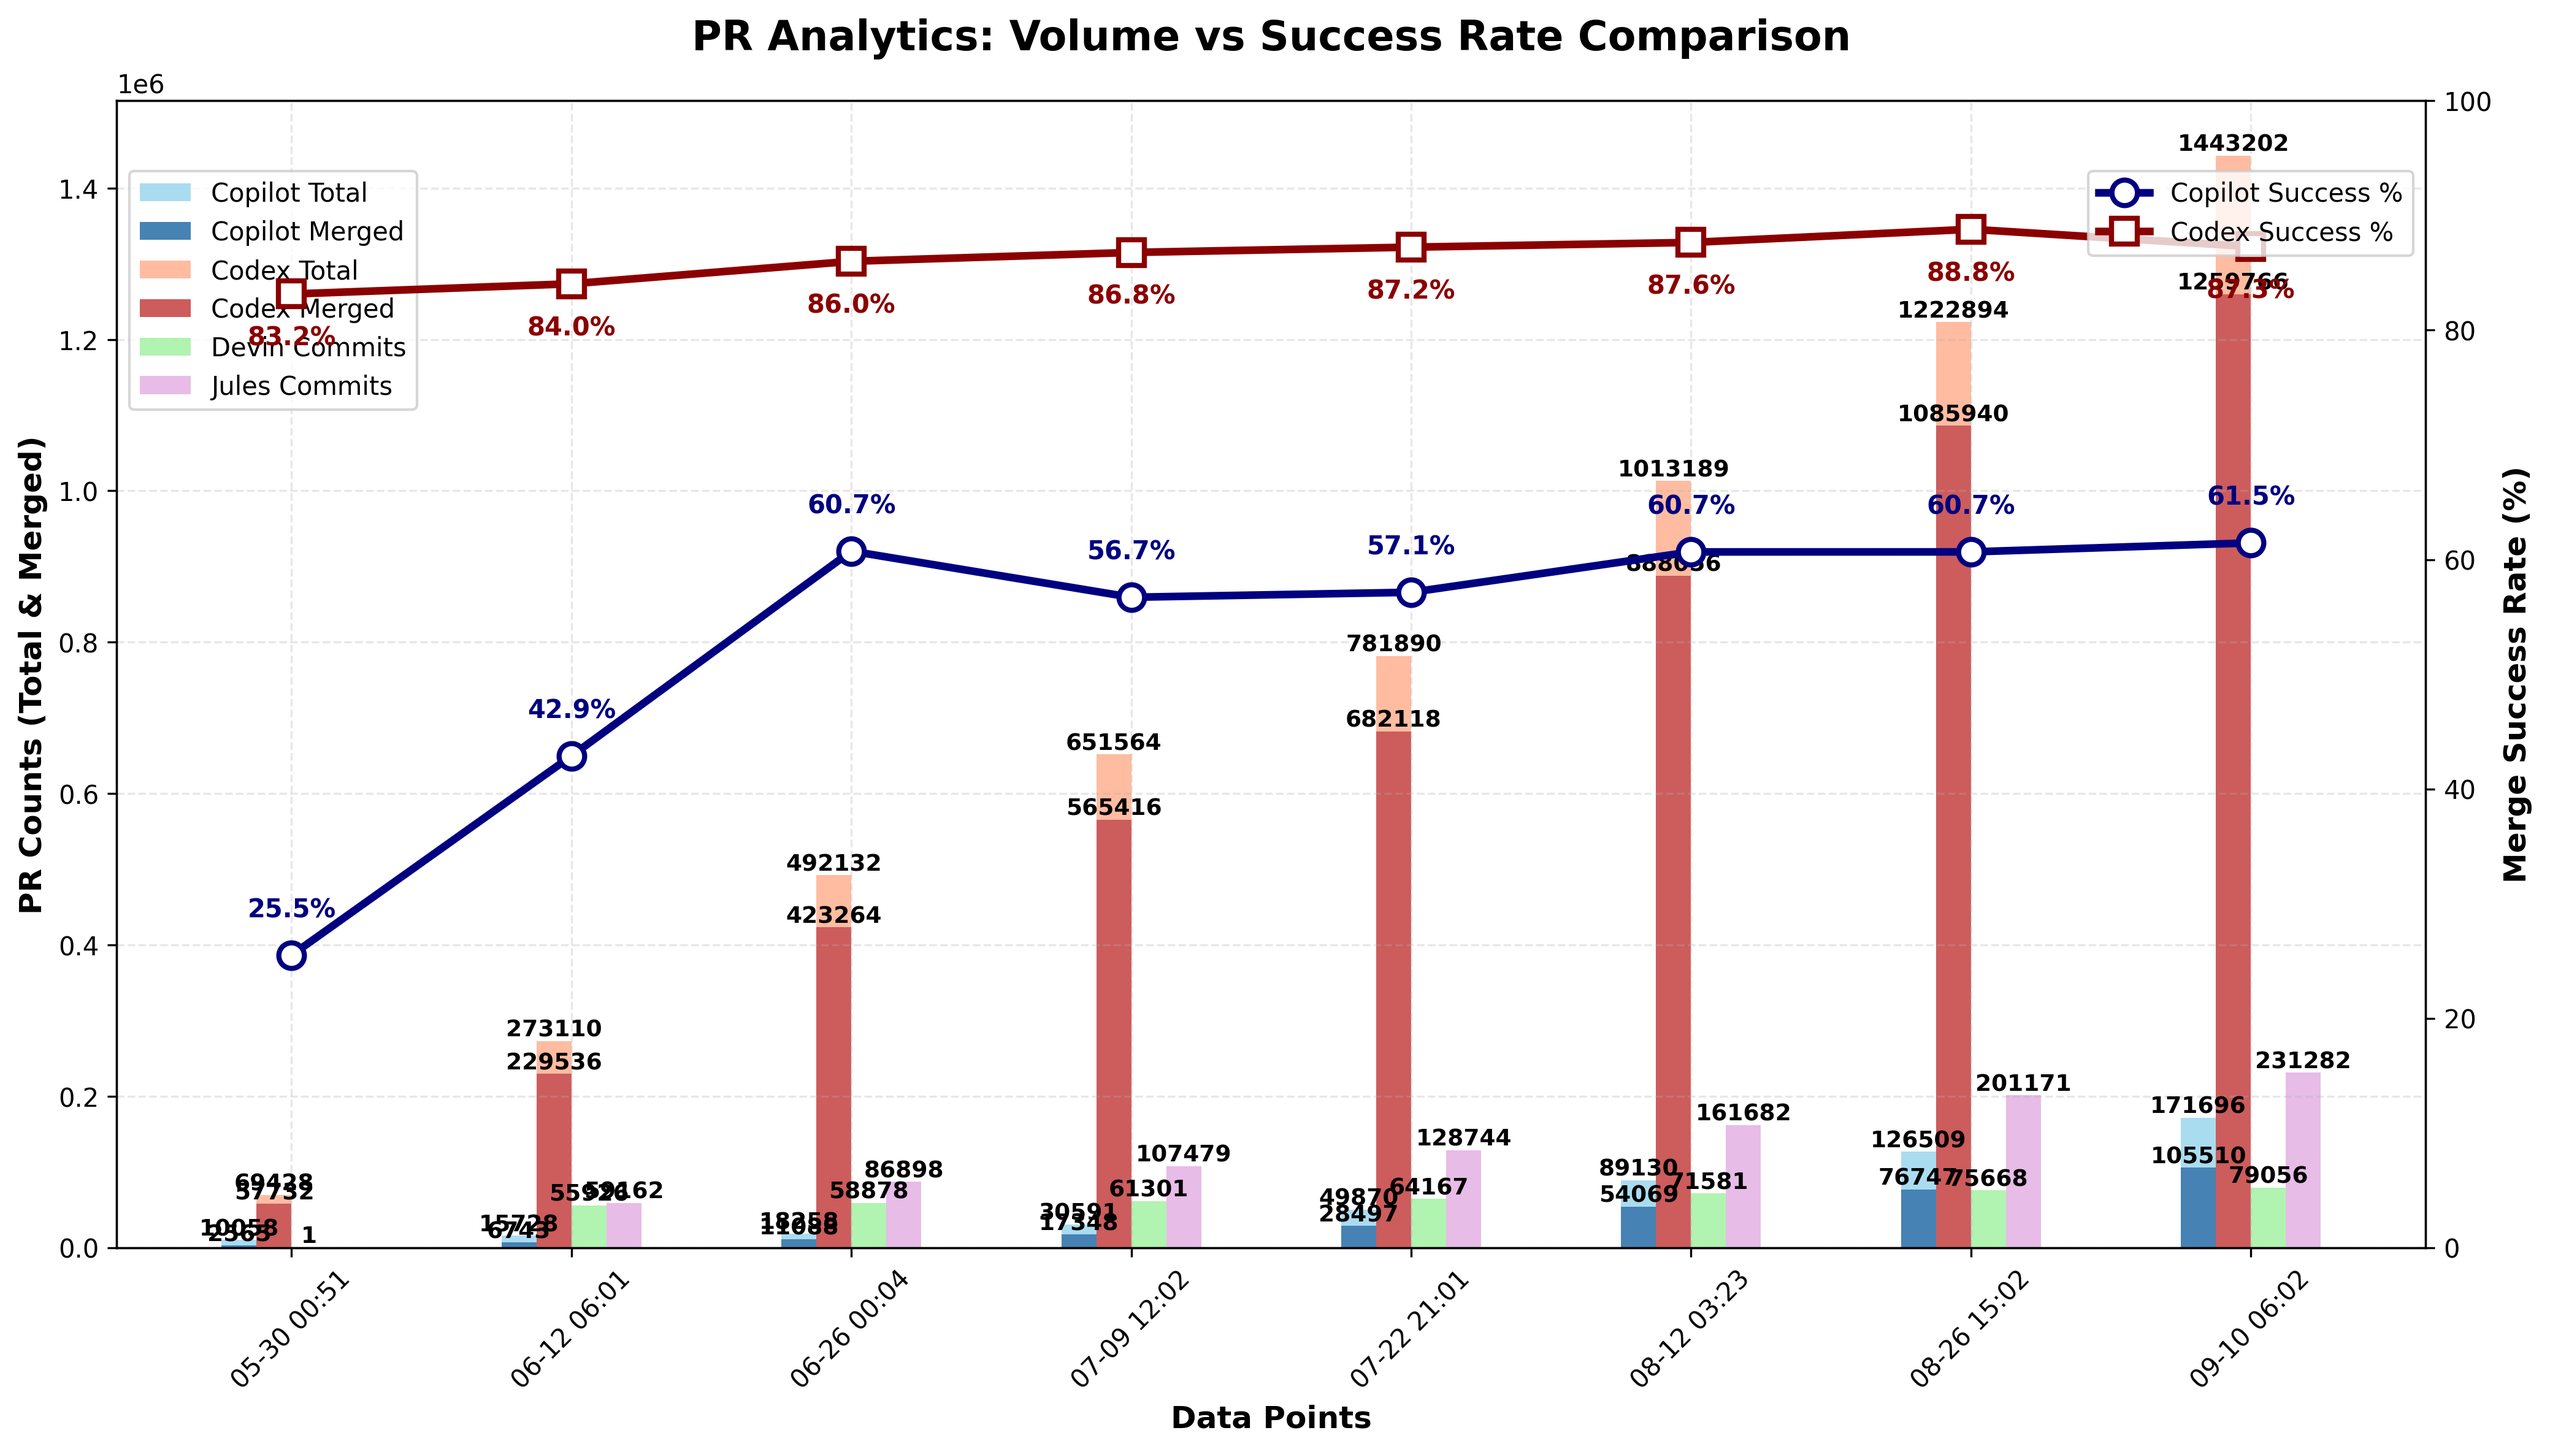
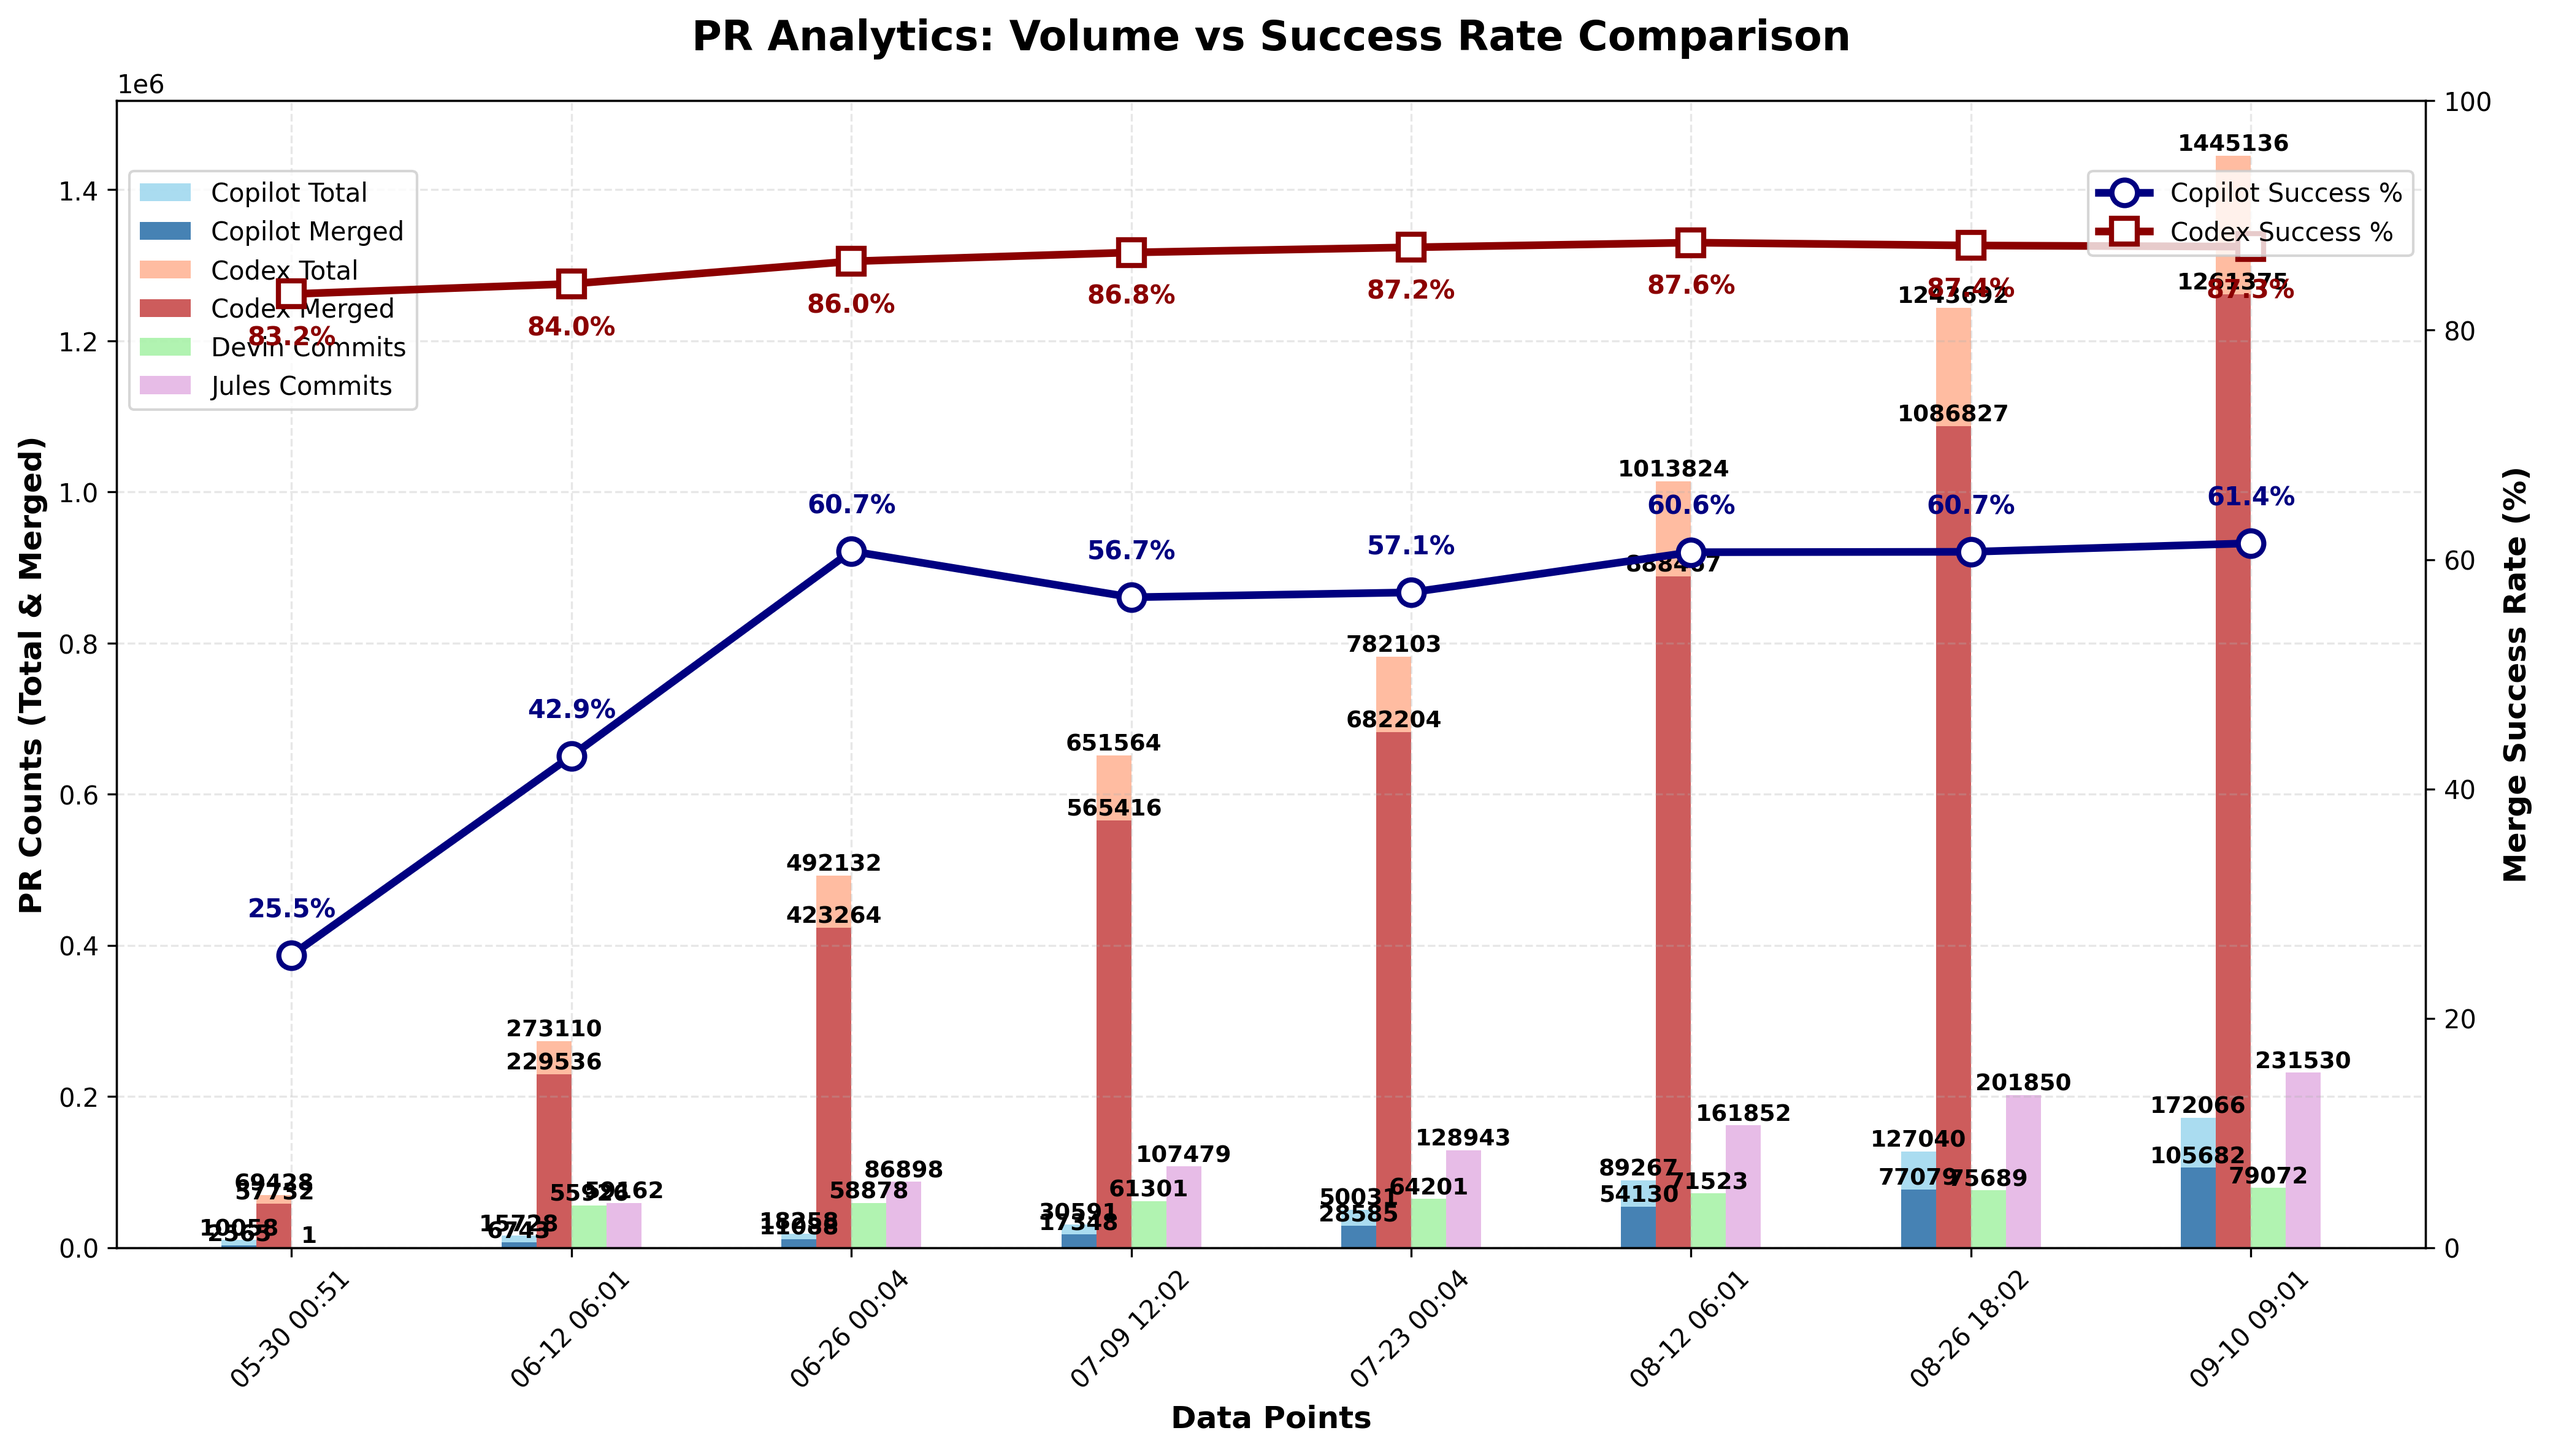
chore: update PR‑approval chart

diff --git a/docs/index.html b/docs/index.html
@@ -802,6 +802,7 @@
                         <td>N/A</td>
                         <td>N/A</td>
                         <td>N/A</td>
+                        <td>N/A</td>
                     </tr>
                     <tr>
                         <td>Codex</td>
@@ -1562,27 +1563,28 @@
                         <td>N/A</td>
                         <td>N/A</td>
                         <td>N/A</td>
+                        <td>N/A</td>
                     </tr>
                 <tr>
                         <td>Devin</td>
                         <td>N/A</td>
                         <td>N/A</td>
                         <td>N/A</td>
-                        <td>79,056</td>
+                        <td>79,072</td>
                     </tr>
                     <tr>
                         <td>Jules</td>
                         <td>N/A</td>
                         <td>N/A</td>
                         <td>N/A</td>
-                        <td>231,282</td>
+                        <td>231,530</td>
                     </tr>
                     </tbody>
             </table>
         </section>
 
         <footer>
-            <p>Last updated: <span id="last-updated">September 10, 2025 06:02 UTC</span></p>
+            <p>Last updated: <span id="last-updated">September 10, 2025 09:01 UTC</span></p>
             <p><a href="https://github.com/aavetis/ai-pr-watcher">View on GitHub</a></p>
         </footer>
     </div>

diff --git a/README.md b/README.md
@@ -19,7 +19,7 @@ Explore the GitHub search queries used:
 
 | Service | Total PRs | Merged PRs | Merge Rate | Total Commits |
 | ------- | --------- | ---------- | ---------- | ------------- |
-| Copilot | 171,696 | 105,510 | 61.45% | N/A           |
-| Codex   | 1,443,202 | 1,259,766 | 87.29% | N/A           |
-| Devin   | N/A       | N/A        | N/A        | 79,056 |
-| Jules   | N/A       | N/A        | N/A        | 231,282 |
+| Copilot | 172,066 | 105,682 | 61.42% | N/A           |
+| Codex   | 1,445,136 | 1,261,375 | 87.28% | N/A           |
+| Devin   | N/A       | N/A        | N/A        | 79,072 |
+| Jules   | N/A       | N/A        | N/A        | 231,530 |
